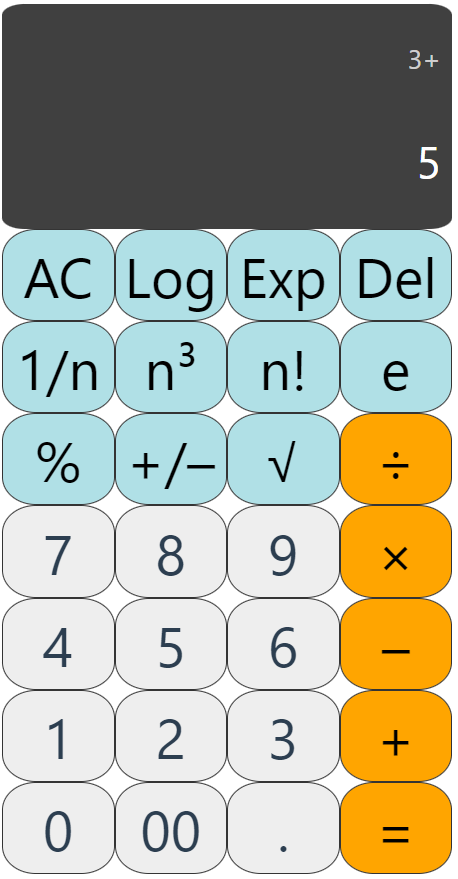
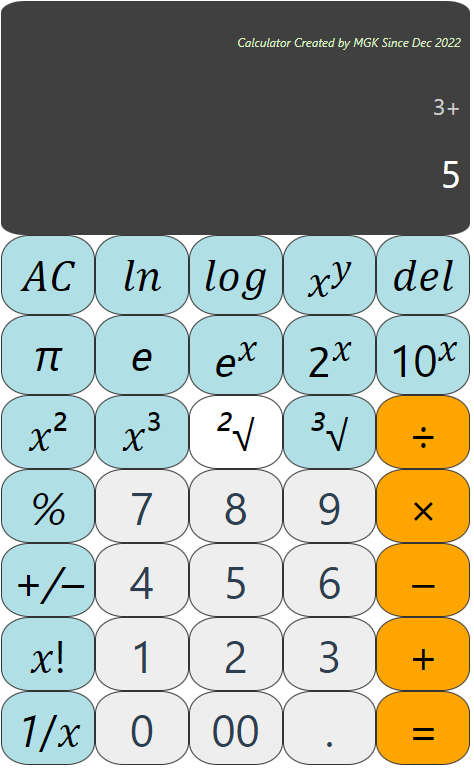
update readme and images

diff --git a/src/components/Calculator.vue b/src/components/Calculator.vue
@@ -184,7 +184,7 @@ export default {
 <template>
   <div class="calculator">
     <div class="display">
-      <div class="title">{{ "Calculator Created by MGK" }}</div>
+      <div class="title">{{ "Calculator Created by MGK Since Dec 2022" }}</div>
       <div class="previous-operand">{{ previous }}</div>
       <div class="current-operand">{{ current || '0' }}</div>
     </div>
@@ -254,9 +254,10 @@ export default {
 
 .display .title {
   color: rgba(255, 255, 255, .75);
-  font-size: 1rem;
+  font-size: 0.8rem;
   color: rgb(219, 243, 195);
   font-style: italic;
+  height: 10px;
 }
 .display .previous-operand {
   color: rgba(255, 255, 255, .75);

diff --git a/README.md b/README.md
@@ -6,8 +6,8 @@ Single page Vue application calculator. This project was carried out to make an 
 ### Basic keys
   - It has eleven number keys : 0, 00, 1, 2, 3, 4, 5, 6, 7, 8, 9
   - It has five operator keys : +, -, x, ÷, =
-  - It has preset function keys : logarithm(Log), exponent(Exp), cubed(n³), reciprocal(1/n), square root(√), factorial(n!), percent(%), base of the natural logarithm(e), change of postive and negative sign(+/-), decimal(.)
-  - It has editing keys : delete(DEL), clear(AC)
+  - It has preset function keys : logarithm (ln), logarithm10 (log), x power y (x^y), e power x (eˣ), 2 power x (2ˣ), 10 power x (10ˣ), cubed (x³), reciprocal (1/x), square root (2√), cube root (3√), factorial (x!), percent (%), base of the natural logarithm (e), change of postive and negative sign (+/-), decimal (.)
+  - It has editing keys : delete (DEL), clear (AC)
 
 ### key features
   - double layers are used to show operands and operators
